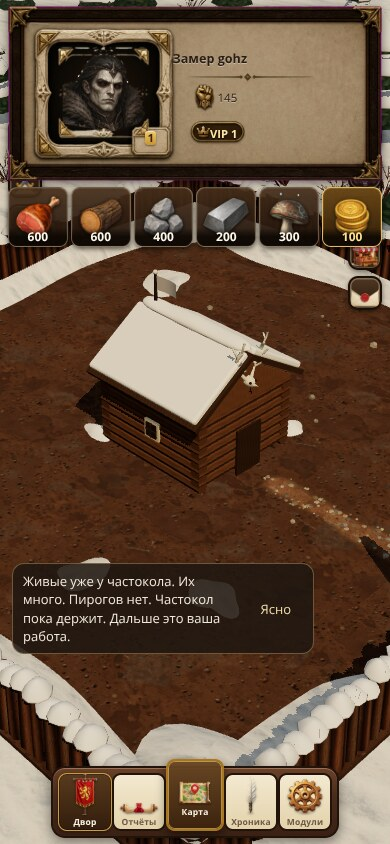
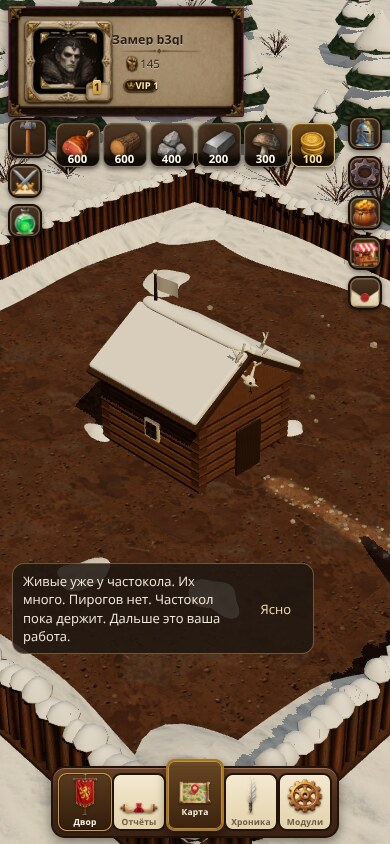
Размеры HUD по прототипу: карточка 236 px вместо 374, чип 44 px, иконка 95% ячейки

Changed region(s): [[0.0, 0.0, 1.0, 0.3081], [0.4308, 0.3389, 0.4615, 0.3697]]

diff --git a/apps/client/src/hud.css b/apps/client/src/hud.css
@@ -84,7 +84,9 @@
 
 .hud-top > .hud-lord {
   width: 100%;
-  max-width: none;
+  /* 236 px — ширина плашки лорда из утверждённого прототипа (docs/game/ui/hud/hud.css, круг 6).
+     Больше нельзя: карточка начинает съедать сцену. */
+  max-width: min(236px, 62vw);
 }
 
 /* Слот аватара — квадрат по центру гнезда подложки. */
@@ -131,7 +133,7 @@
   right: -2%;
   bottom: -2%;
   font-style: normal;
-  font-size: 6.5cqh;
+  font-size: 9.9cqh;
   font-weight: 800;
   line-height: 1.2;
   color: #3b2416;
@@ -157,7 +159,7 @@
   width: 36%;
   top: 25.78%;
   height: 9.03%;
-  font-size: 7.2cqh;
+  font-size: 11.3cqh;
   line-height: 1.05;
   white-space: nowrap;
   text-overflow: ellipsis;
@@ -170,7 +172,7 @@
   width: 24%;
   top: 46%;
   height: 12.5%;
-  font-size: 6.6cqh;
+  font-size: 10.4cqh;
   font-variant-numeric: tabular-nums;
   text-shadow: 0 1px 0 rgba(255, 255, 255, 0.35);
 }
@@ -185,7 +187,7 @@
 }
 
 .hud-lord .state-row .vip-num {
-  font-size: 6.4cqh;
+  font-size: 8.6cqh;
   font-weight: 800;
   line-height: 1;
   color: #ffe6a8;
@@ -203,9 +205,9 @@
    Контрастная тёмная подложка нужна поверх светлой снежной сцены. ---------- */
 .hud-res {
   display: grid;
-  /* до 64 px на чип: картинка ресурса должна быть крупной, а не спичечной */
-  grid-template-columns: repeat(6, minmax(0, 64px));
-  justify-content: space-between;
+  /* до 44 px на чип: иконка 43 px — почти как 40 px в прототипе, и шесть чипов встают в ряд по центру */
+  grid-template-columns: repeat(6, minmax(0, 44px));
+  justify-content: center;
   gap: 3px;
   width: 100%;
   min-width: 0;
@@ -278,7 +280,7 @@
   overflow: hidden;
   background: linear-gradient(180deg, rgba(10, 6, 2, 0) 0%, rgba(10, 6, 2, 0.8) 48%);
   color: #fff8e9;
-  font-size: clamp(9px, 3.2vw, 12px);
+  font-size: clamp(9px, 2.9vw, 11.5px);
   font-weight: 800;
   line-height: 1.1;
   font-variant-numeric: tabular-nums;

diff --git a/STATUS.md b/STATUS.md
@@ -788,3 +788,20 @@ A4 (квадратная рамка аватара) — профиль шире,
 Замер на 360/390/430 и в ландшафте: отклонение каждой зоны от расчётной — не более 0,1 px, пересечений нет,
 чипы не переполняются. Снимок — [lord-card.jpg](docs/game/ui/screens/phase-07-portrait/lord-card.jpg) и
 [hud-top.jpg](docs/game/ui/screens/phase-07-portrait/hud-top.jpg).
+**Размеры HUD приведены к прототипу (03.10.2026).** Заказчик: карточка и ресурсы «огромные». Причина — я отпустил
+карточку во всю ширину экрана (374 px) и чипы до 60 px, уйдя от величин, заданных в утверждённом прототипе
+`docs/game/ui/hud/hud.css` (круг 6): **плашка лорда 236 px, портрет 52 px, имя 12,5 px, сила 11,5 px, число
+ресурса 12,5 px, иконка ресурса 40 px**. Возвращено:
+
+| | было | стало | по прототипу |
+| --- | --- | --- | --- |
+| карточка лорда | 374×175 | **236×111** | 236 |
+| гнездо аватара / лицо | 101 / 92 px | **64 / 58 px** | портрет 52 px |
+| имя | 12,6 px | **12,5 px** | 12,5 px |
+| число силы | 11,6 px | **11,5 px** | 11,5 px |
+| чип ресурса | 60×60 | **44×44** | 116×32 (ландшафт) |
+| иконка ресурса | 58 px | **42 px (95 % чипа)** | 40 px |
+| весь верх HUD | 247 px (29 % экрана) | **167 px (20 %)** | — |
+
+Шрифты карточки пересчитаны в `cqh` от высоты карточки так, чтобы давать ровно прототипные 12,5 и 11,5 px.
+Замер на 360/390/430: отклонение зон от расчётных — 0–0,1 px, текст нигде не переполняется.
